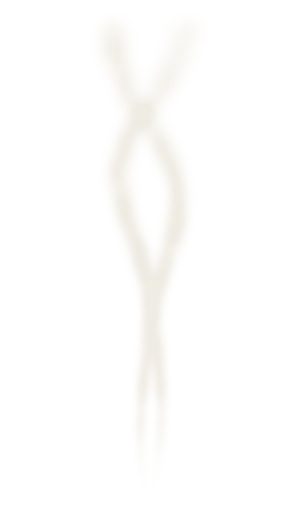
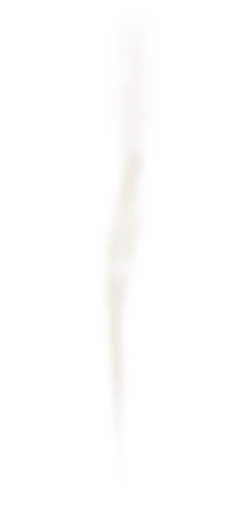
Add files via upload

diff --git a/assets/site.css b/assets/site.css
@@ -118,25 +118,3 @@ background-size:34% 100%,62% 100%,100% 100%;background-position:50% 0,50% 0,0 0;
 
 /* v54 烟缕图需要显式解除 .censer img 的隐藏 */
 .censer .smoke-img{display:block!important}
-
-/* v55 香烟改为两缕交缠，整体加大加浓 */
-.censer .smoke-img{width:122%!important;bottom:88%!important;filter:blur(.4px) drop-shadow(0 0 4px rgba(255,238,205,.22)!important}
-.censer.fed .smoke-img{animation:smokeTwin 4.6s ease-out both!important}
-@keyframes smokeTwin{
-0%{opacity:0;transform:translateX(-50%) translateY(6px) scaleY(.42) scaleX(.8)}
-9%{opacity:.98;transform:translateX(-50%) translateY(3px) scaleY(.6) scaleX(.9)}
-50%{opacity:.95;transform:translateX(-50.3%) translateY(-3px) scaleY(.9) scaleX(1) rotate(-.4deg)}
-78%{opacity:.8}
-100%{opacity:0;transform:translateX(-51.4%) translateY(-12px) scaleY(1.18) scaleX(1.06) rotate(1.1deg)}
-}
-
-/* v56 交缠烟缕：更快成形、更长时间维持 */
-.censer.fed .smoke-img{animation:smokeTwin2 4.6s ease-out both!important}
-@keyframes smokeTwin2{
-0%{opacity:0;transform:translateX(-50%) translateY(4px) scaleY(.62) scaleX(.86)}
-7%{opacity:1;transform:translateX(-50%) translateY(2px) scaleY(.92) scaleX(.95)}
-32%{opacity:.98;transform:translateX(-50%) translateY(0) scaleY(1) scaleX(1)}
-62%{opacity:.92;transform:translateX(-50.4%) translateY(-5px) scaleY(1.06) rotate(-.4deg)}
-85%{opacity:.55}
-100%{opacity:0;transform:translateX(-51.2%) translateY(-12px) scaleY(1.16) rotate(1deg)}
-}
